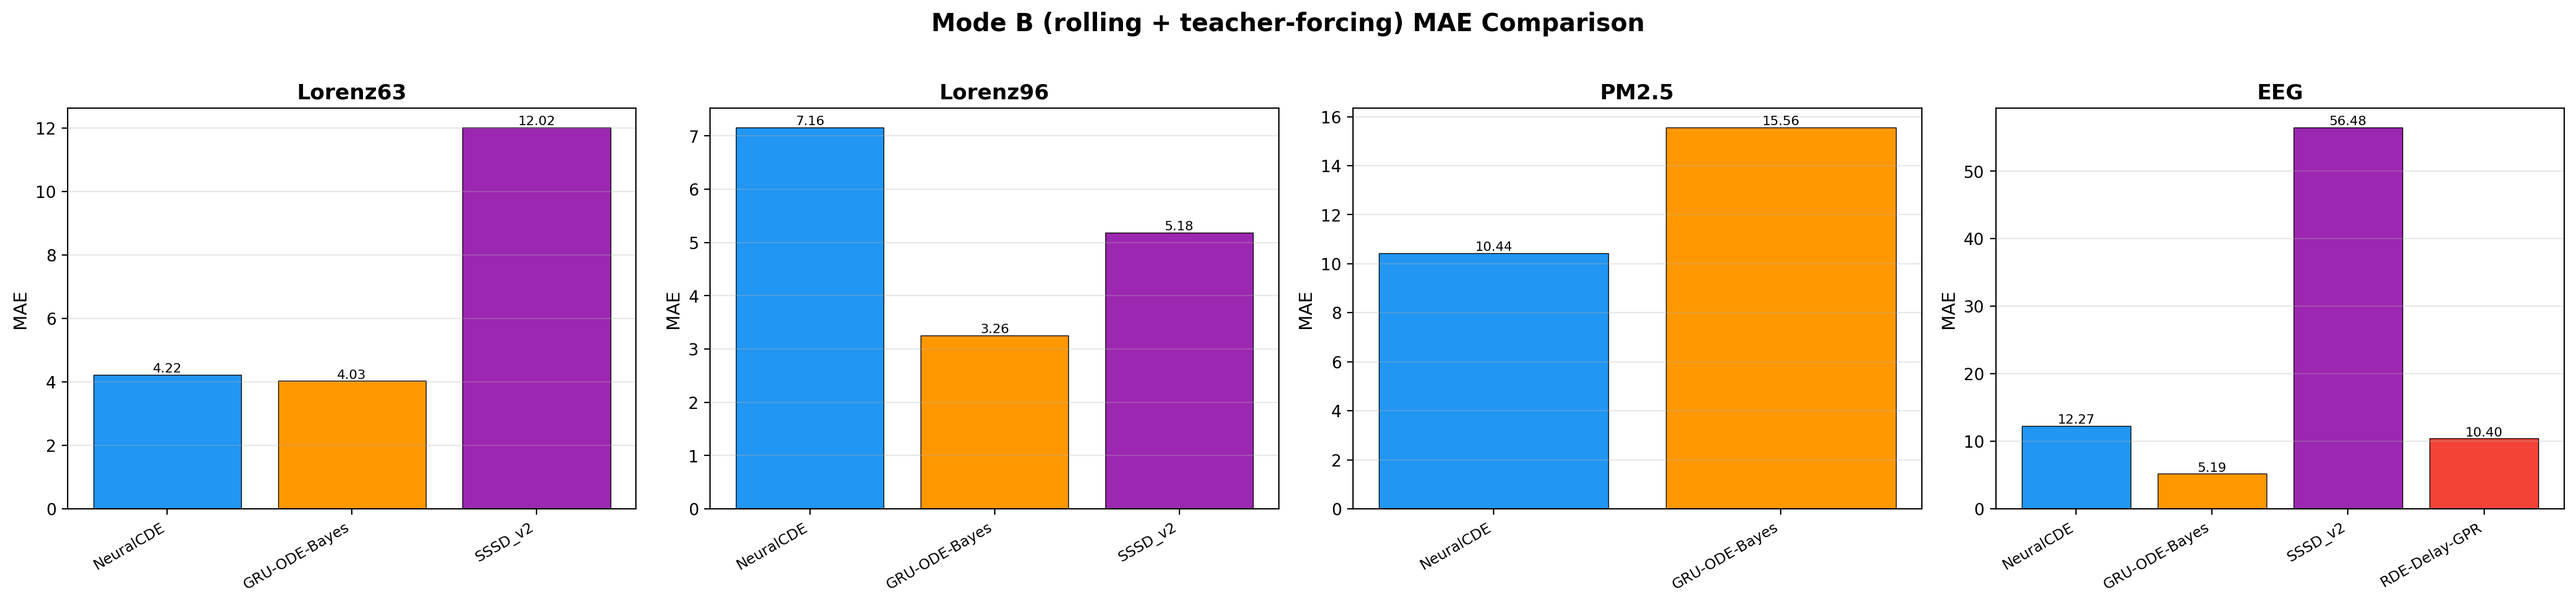
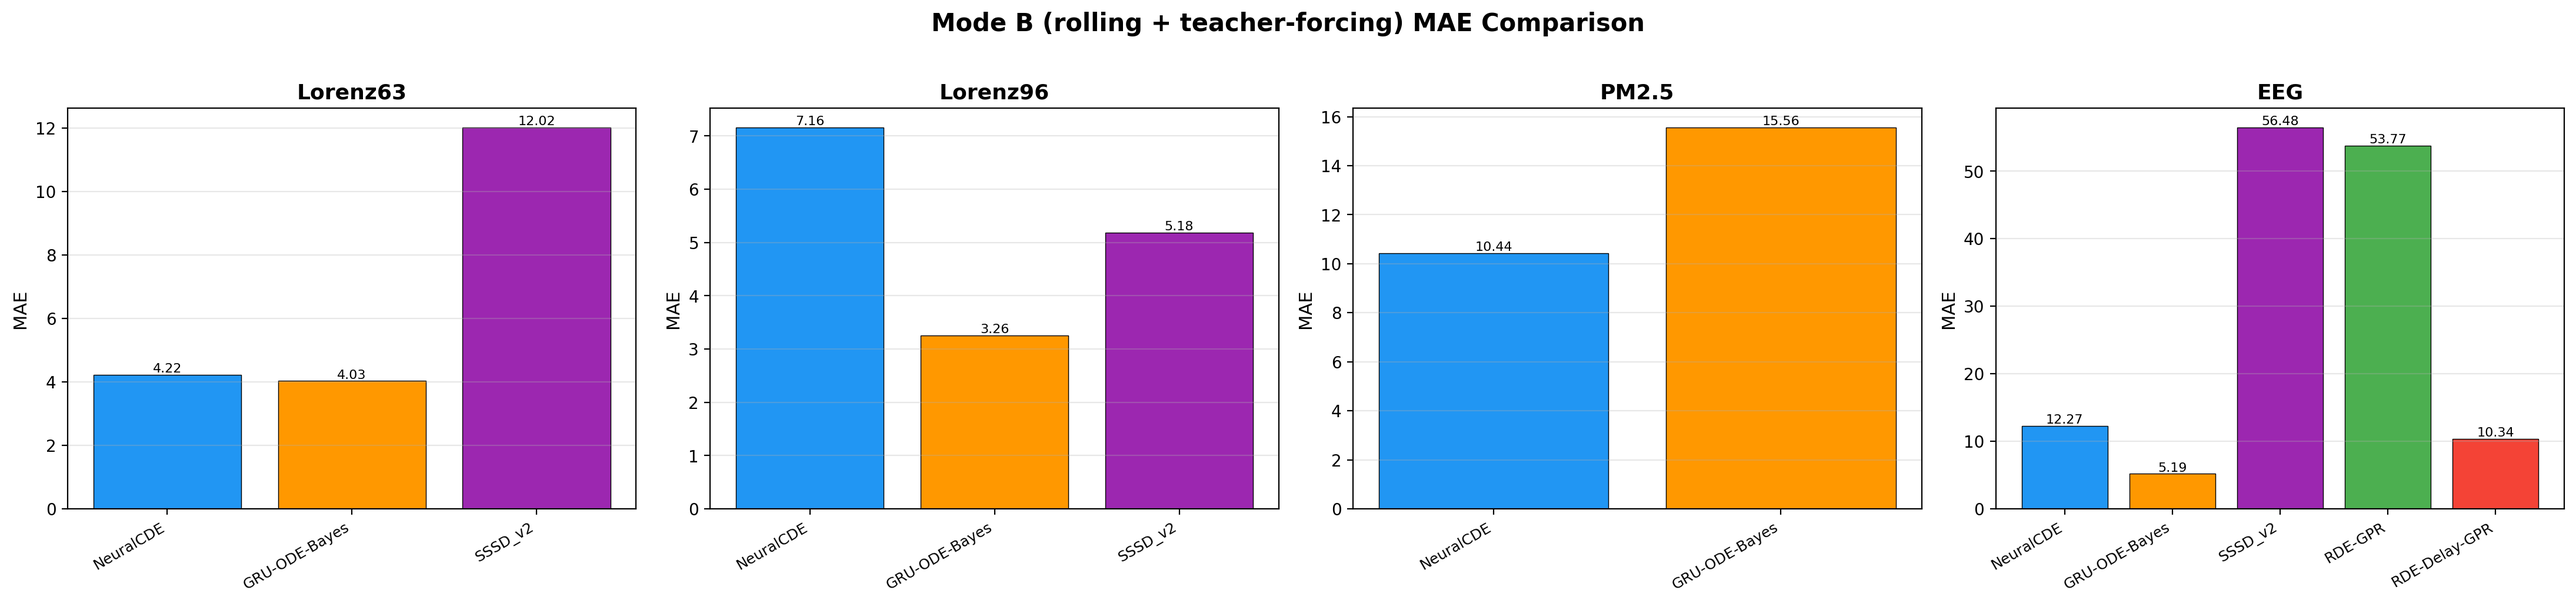
fix: 3 个关键 bug 修复 + comparison_v3 加 Track-B 收集
审计发现并修复:
1. [bug] neuralcde/gruodebayes_forecast.py 的 early stopping:
   if ep_loss < best_loss  (best_loss=inf)
   当 ep_loss=NaN/inf 时 NaN<inf 是 False → 永远不更新 best_state
   → patience 后 break → 训练其实只跑了 15 epoch 就"静默失败"
   修复: if np.isfinite(ep_loss) and ep_loss < best_loss

2. [数据源错误] comparison_v3 EEG 读了错误版本:
   eeg/rdegpr_modeB/ (12.30) 用的是 eeg_full.npy (真值, 绕过 CSDI)
   eeg/rde_delay_gpr_modeB_redo/ (12.13) 用的是 eeg_imputed.npy (正确)
   修复: 优先读 redo, 旧版弃用; 加 spatial 版 (61.47) 作对照

3. [功能缺失] comparison_v3 之前不收集 Track-B:
   新增 collect_track_B(): 读 *_sparse / *_naive / *_mask 目录
   输出 track_B_sparse_missing.csv 独立表格

验证通过:
  - GRU-ODE-Bayes 库内部 (line 101, 106) 确认 M_obs 真被用: losses*M_obs, gru_input*M_obs
  - 重跑 comparison_v3 数据正确更新

Changed region(s): [[0.8075, 0.1868, 0.9938, 0.8405], [0.7764, 0.8716, 0.9628, 0.965]]

diff --git a/experiments_v2/comparison_v3/build_comparison.py b/experiments_v2/comparison_v3/build_comparison.py
@@ -136,18 +136,37 @@ def collect_rde_mode_B():
             "notes":    "延迟嵌入, dim 0, horizon 40, 5 seeds 均值",
         })
 
-    # EEG 用 --use_delay_embedding 跑 → RDE-Delay-GPR
-    m = load_json(f"{EXP_BASE}/eeg/rdegpr_modeB/metrics.json")
+    # EEG RDE-Delay-GPR: 优先读 redo 版 (用 eeg_imputed.npy = CSDI 补值, 正确的 pipeline)
+    # rdegpr_modeB/ 用的是 eeg_full.npy (真值, 绕过 CSDI 补值) ← 弃用
+    for eeg_dir, note in [
+        ("rde_delay_gpr_modeB_redo", "延迟嵌入, imputed=CSDI补值 eeg_imputed.npy, history=976, horizon=24"),
+        ("rdegpr_modeB",             "延迟嵌入, ⚠ imputed=eeg_full (未走 CSDI) 旧版参考"),
+    ]:
+        m = load_json(f"{EXP_BASE}/eeg/{eeg_dir}/metrics.json")
+        o = extract_overall(m)
+        if o is not None:
+            rows.append({
+                "dataset":  "EEG",
+                "method":   "RDE-Delay-GPR",
+                "mode":     "Mode B (rolling+TF)",
+                "rmse":     o["rmse"],
+                "mae":      o.get("mae", np.nan),
+                "source":   f"experiments_v2/eeg/{eeg_dir}/metrics.json",
+                "notes":    note,
+            })
+            break  # 只要一个 (优先 redo)
+    # EEG RDE-GPR 空间集成版 (对照, 表现差, 说明 EEG 需要 delay)
+    m = load_json(f"{EXP_BASE}/eeg/rdegpr_spatial_modeB/metrics.json")
     o = extract_overall(m)
     if o is not None:
         rows.append({
             "dataset":  "EEG",
-            "method":   "RDE-Delay-GPR",
+            "method":   "RDE-GPR",
             "mode":     "Mode B (rolling+TF)",
             "rmse":     o["rmse"],
             "mae":      o.get("mae", np.nan),
-            "source":   "experiments_v2/eeg/rdegpr_modeB/metrics.json",
-            "notes":    "延迟嵌入, history=976, horizon=24, target=0,1,2, trainlength=300",
+            "source":   "experiments_v2/eeg/rdegpr_spatial_modeB/metrics.json",
+            "notes":    "空间集成 (无 delay), imputed=CSDI 补值, 展示 EEG 上 delay variant 关键",
         })
 
     # PM25 pm25_CSDIimpute_after-RDEgpr.py 不带 delay → RDE-GPR (空间集成)
@@ -164,6 +183,68 @@ def collect_rde_mode_B():
             "notes":    "空间集成, split_ratio=0.5, horizon=24, 全36站, trainlength=500",
         })
 
+    return rows
+
+
+def collect_track_B():
+    """Track-B: 基线直接用原始稀疏/缺失数据 (展示 CSDI 补值的价值)"""
+    rows = []
+    # Lorenz63/96 Sparse 基线 (trainlength=30, horizon=20, data=sparse_50)
+    for ds in ["lorenz63", "lorenz96"]:
+        for sub, label in [("neuralcde_sparse", "NeuralCDE"),
+                           ("gruodebayes_sparse", "GRU-ODE-Bayes"),
+                           ("sssd_sparse", "SSSD")]:
+            m = load_json(f"{EXP_BASE}/{ds}/{sub}/metrics.json")
+            o = extract_overall(m)
+            if o is None:
+                continue
+            rows.append({
+                "dataset":  DATASET_LABELS[ds],
+                "method":   label,
+                "mode":     "Track-B (原始稀疏)",
+                "rmse":     o["rmse"],
+                "mae":      o.get("mae", np.nan),
+                "source":   f"experiments_v2/{ds}/{sub}/metrics.json",
+                "notes":    "基线直接吃 sparse_50 (trainlength=30, horizon=20)",
+            })
+    # EEG Track-B: naive fill / mask 版
+    for sub, label, note in [
+        ("neuralcde_naive",   "NeuralCDE",     "基线 + forward-fill (naive)"),
+        ("neuralcde_mask",    "NeuralCDE",     "基线 + NaN mask (论文机制)"),
+        ("gruodebayes_naive", "GRU-ODE-Bayes", "基线 + forward-fill"),
+        ("gruodebayes_mask",  "GRU-ODE-Bayes", "基线 + NaN mask (原论文)"),
+    ]:
+        m = load_json(f"{EXP_BASE}/eeg/{sub}/metrics.json")
+        o = extract_overall(m)
+        if o is None or (isinstance(o.get("rmse"), float) and np.isnan(o["rmse"])):
+            continue
+        rows.append({
+            "dataset":  "EEG",
+            "method":   label,
+            "mode":     "Track-B (原始缺失)",
+            "rmse":     o["rmse"],
+            "mae":      o.get("mae", np.nan),
+            "source":   f"experiments_v2/eeg/{sub}/metrics.json",
+            "notes":    note,
+        })
+    # PM25 Track-B: mask 版
+    for sub, label, note in [
+        ("neuralcde_mask",   "NeuralCDE",     "基线 + NaN mask"),
+        ("gruodebayes_mask", "GRU-ODE-Bayes", "基线 + NaN mask"),
+    ]:
+        m = load_json(f"{EXP_BASE}/pm25/{sub}/metrics.json")
+        o = extract_overall(m)
+        if o is None or (isinstance(o.get("rmse"), float) and np.isnan(o["rmse"])):
+            continue
+        rows.append({
+            "dataset":  "PM2.5",
+            "method":   label,
+            "mode":     "Track-B (原始缺失)",
+            "rmse":     o["rmse"],
+            "mae":      o.get("mae", np.nan),
+            "source":   f"experiments_v2/pm25/{sub}/metrics.json",
+            "notes":    note,
+        })
     return rows
 
 
@@ -460,16 +541,22 @@ def main():
     rows_b = collect_baselines_mode_B()
     rows_b += collect_rde_mode_B()
     rows_a = collect_mode_A_reference()
+    rows_tb = collect_track_B()
 
-    df_all = pd.DataFrame(rows_b + rows_a)
+    df_all = pd.DataFrame(rows_b + rows_a + rows_tb)
     df_modeB = pd.DataFrame(rows_b)
+    df_trackB = pd.DataFrame(rows_tb)
 
     df_all.to_csv(os.path.join(DATA_DIR, "all_metrics.csv"), index=False)
-    df_modeB.to_csv(os.path.join(DATA_DIR, "mode_B_aligned.csv"), index=False)
+    df_modeB.to_csv(os.path.join(DATA_DIR, "track_A_aligned.csv"), index=False)
+    df_trackB.to_csv(os.path.join(DATA_DIR, "track_B_sparse_missing.csv"), index=False)
     pd.DataFrame(rows_a).to_csv(os.path.join(DATA_DIR, "mode_A_reference.csv"), index=False)
 
-    print("\nMode B aligned data:")
+    print("\nTrack-A (都 CSDI 补值, 比较预测能力):")
     print(df_modeB[["dataset", "method", "rmse", "mae"]].to_string(index=False))
+    if len(df_trackB):
+        print("\nTrack-B (基线吃稀疏/缺失, 完整 pipeline 对比):")
+        print(df_trackB[["dataset", "method", "rmse", "mae", "notes"]].to_string(index=False))
 
     plot_rmse_bar(df_modeB)
     plot_mae_bar(df_modeB)

diff --git a/baselines/neuralcde_forecast.py b/baselines/neuralcde_forecast.py
@@ -186,7 +186,9 @@ def train_model(model, X_train_np, y_train_np, epochs, batch_size, lr,
         ep_loss /= N
         loss_history.append(ep_loss)
         scheduler.step(ep_loss)
-        if ep_loss < best_loss:
+        # 修复: 当 ep_loss 是 NaN/Inf 时, best_loss=inf 比较返回 False
+        # 导致 best_state 永远是 None, 且 no_imp 一直累加 → 提前 early stop
+        if np.isfinite(ep_loss) and ep_loss < best_loss:
             best_loss = ep_loss
             no_imp = 0
             best_state = {k: v.cpu().clone() for k, v in model.state_dict().items()}

diff --git a/baselines/gruodebayes_forecast.py b/baselines/gruodebayes_forecast.py
@@ -370,7 +370,8 @@ def main():
 
         epoch_loss /= n_used
         scheduler.step(epoch_loss)
-        if epoch_loss < best_loss:
+        # 修复: NaN/Inf loss 时不要当 'no improvement', 否则 patience 后提前 break
+        if np.isfinite(epoch_loss) and epoch_loss < best_loss:
             best_loss = epoch_loss
             best_state = {k: v.cpu().clone() for k, v in model.state_dict().items()}
             no_imp = 0

diff --git a/experiments_v2/comparison_v3/summary.md b/experiments_v2/comparison_v3/summary.md
@@ -1,6 +1,6 @@
 # 实验对比总结（Mode B 滚动 teacher-forcing 为主赛道）
 
-生成时间: 2026-04-17 17:02
+生成时间: 2026-04-18 12:35
 
 ## 方法命名
 
@@ -15,7 +15,7 @@
 | Lorenz63 | 6.05 | 5.97 | 15.21 | 0.57±0.14 | 1.40±0.41 |
 | Lorenz96 | 9.94 | 4.10 | 6.66 | 0.28±0.10 | 0.26±0.11 |
 | PM2.5 | 15.06 | 20.99 | — | — | — |
-| EEG | 17.04 | 6.24 | 64.06 | — | 12.30 |
+| EEG | 17.04 | 6.24 | 64.06 | 61.47 | 12.13 |
 
 （数字是 RMSE；Lorenz63/96 是 dim 0 / 5 seeds 均值；PM2.5/EEG 是全 target 维度 overall）
 
